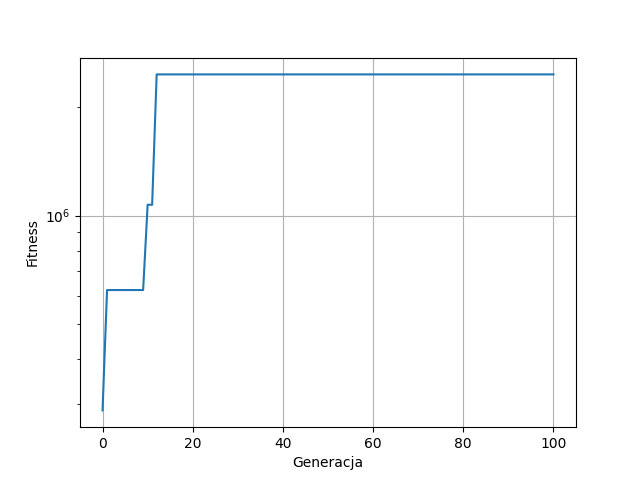
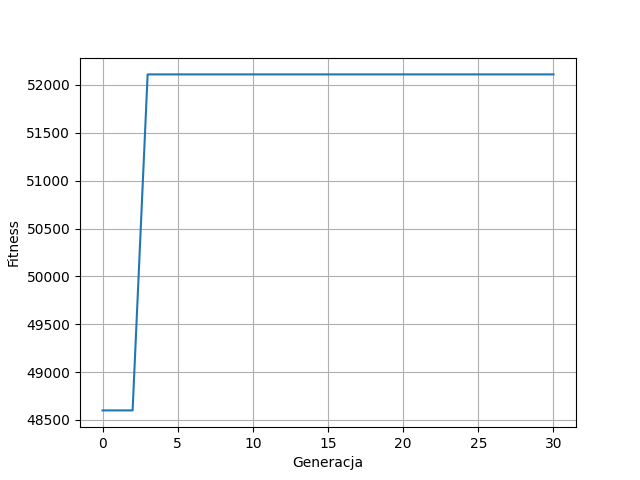
Kolejne testy i wyniki

diff --git a/algorytmGenetyczny.py b/algorytmGenetyczny.py
@@ -4,6 +4,7 @@ import pygad
 import matplotlib.pyplot as plt
 from funkcjeRobocze import wczytaniePlikuDoAlgGen
 from bitwa import walkaDlaAlgGen
+from ileWygranych import ileWygranych
 
 armies = wczytaniePlikuDoAlgGen()
 
@@ -18,23 +19,23 @@ def walki(t1, l, t2, s, t3, p):
         left = walkaDlaAlgGen(t1, army[0]) * l - army[1]
         right = walkaDlaAlgGen(t3, army[4]) * p - army[5]
         if left >= 0:
-            score += 100
+            score += 10
         else:
-            score -= 500
+            score -= 20
 
         if right >= 0:
-            score += 100
+            score += 10
         else:
-            score -= 500
+            score -= 20
 
         genArmy = [t2, walkaDlaAlgGen(t1, t2) * left * 1.25 + s + walkaDlaAlgGen(t3, t2) * right * 1.25]
         enemyArmy = [army[2], walkaDlaAlgGen(army[0], army[2]) * min(0, left) * 1.25 + army[3] + walkaDlaAlgGen(army[4], army[2]) * min(0, right) * 1.25]
 
         result = walkaDlaAlgGen(genArmy[0], enemyArmy[0]) * genArmy[1] - enemyArmy[1]
         if result >= 0:
-            score += 500 + result
+            score += 15 + result//100
         else:
-            score -= 500 + result
+            score -= 50 + result//100
 
     return score
 
@@ -88,21 +89,22 @@ def fitness_func(model, solution, solution_idx):
         money += p*2
 
     if money > moneyBudget:
-        return -100000
+        return -1000000
     else:
         return walki(t1, l, t2, s, t3, p)
 
 
-num_generations = 100
-num_parents_mating = 4
+num_generations = 30
+num_parents_mating = 8
 keep_parents = 2
 mutation_percent_genes = 18
-sol_per_pop = 10
+sol_per_pop = 20
 num_genes = 6
 
 initial_population = np.random.rand(sol_per_pop, num_genes)
 
-parent_selection_type = "rws"
+parent_selection_type = "tournament"
+crossover_type = "single_point"
 
 ga_instance = pygad.GA(num_generations=num_generations,
                        num_parents_mating=num_parents_mating,
@@ -113,6 +115,7 @@ ga_instance = pygad.GA(num_generations=num_generations,
                        gene_space=gene_space,
                        keep_parents=keep_parents,
                        parent_selection_type=parent_selection_type,
+                       crossover_type=crossover_type,
                        initial_population=initial_population,
                        mutation_percent_genes=mutation_percent_genes)
 
@@ -127,8 +130,32 @@ plt.plot(fitness_values)
 plt.xlabel('Generacja')
 plt.ylabel('Fitness')
 plt.grid()
-plt.yscale("log", base=10)
 plt.savefig("wykres.png")
+
+ileWygranych(solution)
 
 # Parameters of the best solution :  [1.         0.04210015 1.         0.4163792  1.         0.51083522]
 # Fitness value of the best solution = 2636793.375
+
+# Parameters of the best solution :  [0.         0.02328759 1.         0.1360393  0.         0.83905977]
+# Fitness value of the best solution = 493491.0
+# Na 5000 bitw
+# Lewe skrzydło wygralo: 136 2.7199999999999998%
+# Prawe skrzydło wygralo: 4996 99.92%
+# Cala bitwa zostala wygrana: 4686 93.72%
+
+# Parameters of the best solution :  [1.         0.         1.         0.53089774 0.         0.42315896]
+# Fitness value of the best solution = 383449.0
+# 953.0
+# Na 5000 bitw
+# Lewe skrzydło wygralo: 0 0.0%
+# Prawe skrzydło wygralo: 4579 91.58%
+# Cala bitwa zostala wygrana: 4888 97.76%
+
+# Parameters of the best solution :  [1.         0.05062759 1.         0.55042416 1.         0.32284224]
+# Fitness value of the best solution = 128451.0
+# Wykorzystany budżet: 922.0
+# Na 5000 bitw
+# Lewe skrzydło wygralo: 312 6.239999999999999%
+# Prawe skrzydło wygralo: 4239 84.78%
+# Cala bitwa zostala wygrana: 4844 96.88%

diff --git a/ileWygranych.py b/ileWygranych.py
@@ -1,0 +1,77 @@
+from funkcjeRobocze import wczytaniePlikuDoAlgGen
+from bitwa import walkaDlaAlgGen
+
+
+def ileWygranych(army):
+    t1, l, t2, s, t3, p = army
+    money = 0
+    if t1 / 3 <= 1 / 3:
+        t1 = 1
+    elif t1 / 3 <= 2 / 3:
+        t1 = 2
+    else:
+        t1 = 3
+
+    if t2 / 3 <= 1 / 3:
+        t2 = 1
+    elif t2 / 3 <= 2 / 3:
+        t2 = 2
+    else:
+        t2 = 3
+
+    if t3 / 3 <= 1 / 3:
+        t3 = 1
+    elif t3 / 3 <= 2 / 3:
+        t3 = 2
+    else:
+        t3 = 3
+
+    l = l * 1000 // 1
+    s = s * 1000 // 1
+    p = p * 1000 // 1
+    if t1 == 1:
+        money += l
+    elif t1 == 2:
+        money += l * 1.5
+    elif t1 == 3:
+        money += l * 2
+
+    if t2 == 1:
+        money += s
+    elif t2 == 2:
+        money += s * 1.5
+    elif t2 == 3:
+        money += s * 2
+
+    if t3 == 1:
+        money += p
+    elif t3 == 2:
+        money += p * 1.5
+    elif t3 == 3:
+        money += p * 2
+
+    print("Wykorzystany budżet:", money)
+    score = 0
+    winningLeft = 0
+    winningRight = 0
+    armies = wczytaniePlikuDoAlgGen()
+    for army in armies:
+        left = walkaDlaAlgGen(t1, army[0]) * l - army[1]
+        right = walkaDlaAlgGen(t3, army[4]) * p - army[5]
+        if left >= 0:
+            winningLeft += 1
+
+        if right >= 0:
+            winningRight += 1
+
+        genArmy = [t2, walkaDlaAlgGen(t1, t2) * left * 1.25 + s + walkaDlaAlgGen(t3, t2) * right * 1.25]
+        enemyArmy = [army[2], walkaDlaAlgGen(army[0], army[2]) * min(0, left) * 1.25 + army[3] + walkaDlaAlgGen(army[4], army[2]) * min(0, right) * 1.25]
+
+        result = walkaDlaAlgGen(genArmy[0], enemyArmy[0]) * genArmy[1] - enemyArmy[1]
+        if result >= 0:
+            score += 1
+
+    print("Na", len(armies), "bitw")
+    print("Lewe skrzydło wygralo:", winningLeft, str(winningLeft/len(armies)*100)+"%")
+    print("Prawe skrzydło wygralo:", winningRight, str(winningRight/len(armies)*100)+"%")
+    print("Cala bitwa zostala wygrana:", score, str(score/len(armies)*100)+"%")
